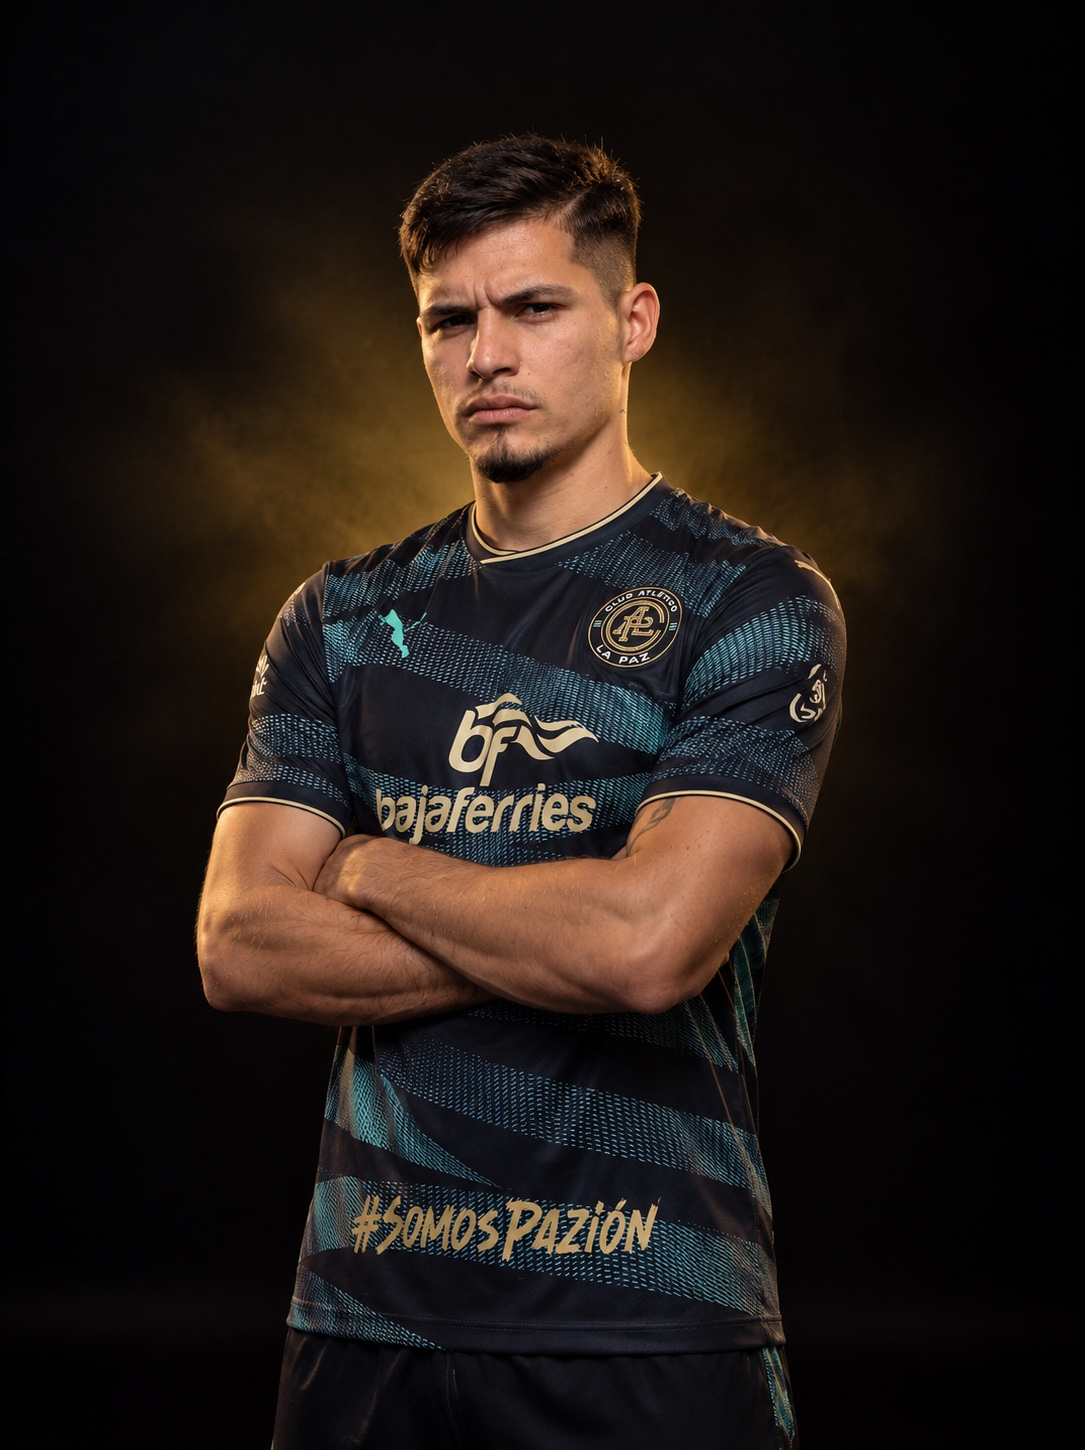
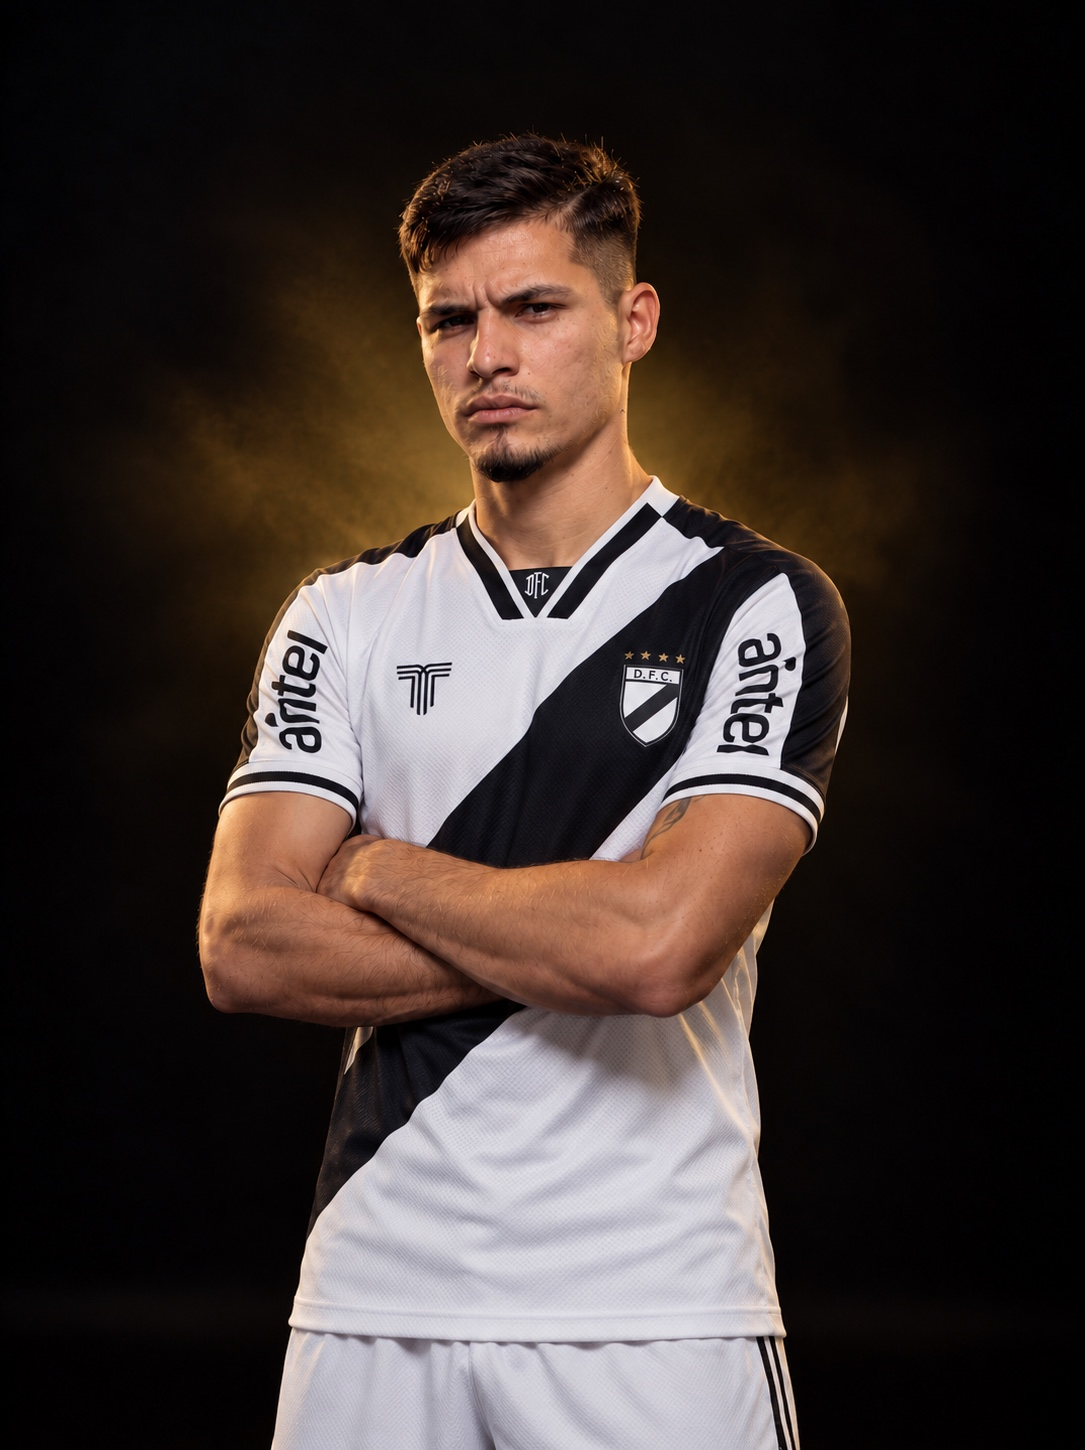
roster: Gonzalo Rodríguez con la camiseta del Danubio
Su foto de estudio pasa de la del Atlético La Paz a la del Danubio FC, el
club de su ficha.

Changed region(s): [[0.1825, 0.3103, 0.7908, 1.0], [0.365, 0.1241, 0.3954, 0.2172], [0.5475, 0.0931, 0.5779, 0.1241]]

diff --git a/ARCHITECTURE.md b/ARCHITECTURE.md
@@ -793,7 +793,7 @@ que ejecutar nada a mano.
 |---|---|---|
 | Logo SVG | ✅ En `/public/logo.svg` | |
 | Vídeo hero | ✅ `public/hero/2026-10b/` | Logo en neón renderizado desde `scripts/hero-neon/neon.html`: apaisado 1920×1080 y vertical 886×1920 |
-| Fotos jugadores | ⚠ 80 de las 84 tarjetas visibles | Profesionales (64 con el seleccionador): 62 de la serie de estudio; sin ninguna, Billy Gee y Janick Buyla. Lo que falta de cada uno, incluida la de Gonzalo Rodríguez (de estudio, pero con la camiseta del Atlético La Paz), en `docs/hallazgos-abiertos.md`. Cantera (20): 11 de la serie de estudio; con la antigua, Tomás Méndez, Frank Iglesias, Babacar Welle, Álvaro Gutiérrez, Miguel Díaz de Burgos, Alberto de Frutos y Wilson Santos; sin ninguna, Pelayo Margollés y João Vogt (2026-10-19). Ver «Fotos de jugadores» arriba |
+| Fotos jugadores | ⚠ 80 de las 84 tarjetas visibles | Profesionales (64 con el seleccionador): 62 de la serie de estudio; sin ninguna, Billy Gee y Janick Buyla. Lo que falta de cada uno, en `docs/hallazgos-abiertos.md`. Cantera (20): 11 de la serie de estudio; con la antigua, Tomás Méndez, Frank Iglesias, Babacar Welle, Álvaro Gutiérrez, Miguel Díaz de Burgos, Alberto de Frutos y Wilson Santos; sin ninguna, Pelayo Margollés y João Vogt (2026-10-19). Ver «Fotos de jugadores» arriba |
 | Escudos de selección | ✅ 9 WebP en `/public/national-team-badges/` | ES, PE, HR, MK, MA, BO, RO, PA, BR. Master PNG en `/assets/source-media/badges/` |
 | Fotos de la oficina | ⚠ Con lo que había | Pilares de Servicios y Contacto (2026-10-15): bolígrafos, pared de chevrones y mesa de reuniones sacados del vídeo de la oficina (1920×1080); carpeta, sillones y tarjeta de la sesión de fotos (1600×1066). Originales en `assets/source-media/oficina/`. Faltan los originales del fotógrafo (`docs/hallazgos-abiertos.md`) |
 | Fuente Söhne | ✅ Integrada | Archivos test de Klim — pendiente licencia. Sin letras acentuadas: se pintan con la fuente de reserva |

diff --git a/docs/hallazgos-abiertos.md b/docs/hallazgos-abiertos.md
@@ -115,11 +115,10 @@ decisión de Mario (`DECISIONS.md`, 2026-10-15). Lo que hace falta de cada uno:
 |---|---|
 | Billy Gee | Foto de estudio y club. Comprobar también el nombre completo |
 | Janick Buyla | Foto de estudio y club (Transfermarkt dice Lusitano GC, sin verificar) |
-| Gonzalo Rodríguez | Foto de estudio con la camiseta del Danubio: la actual es del Atlético La Paz |
 
 Billy Gee y Janick Buyla salen con el avatar genérico. Resuelto el 2026-10-19: las
 fotos de estudio de Luciano Rodríguez, Adrián Martín, Mateo Sciancalepore, Alejandro
-Santiago, Agus Moreno, Hugo García e Israel Motos (y la de Kaua do Vale esa misma noche), y el club de Luciano, que es el
+Santiago, Agus Moreno, Hugo García e Israel Motos (y las de Kaua do Vale y Gonzalo Rodríguez, esta ya con la del Danubio, esa misma noche), y el club de Luciano, que es el
 Club Nacional de Football (su foto lleva el escudo «C.N. de F.»). Pendiente además: si «Lluis Quintero» es la
 forma correcta del nombre de Luis Quintero, renombrar ficha y foto juntas.
 
